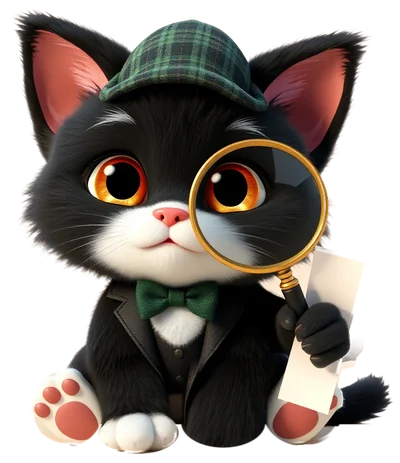
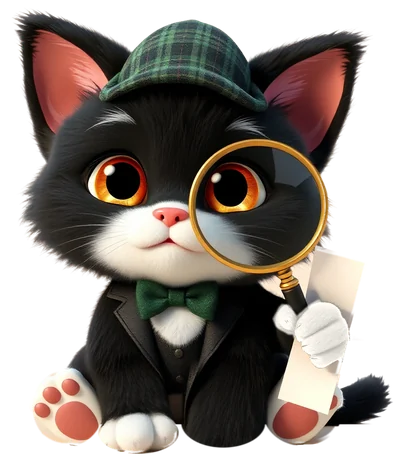
fix: deixa branca a pata do Recibaldo que segura a lupa
A mão veio preta na imagem gerada, diferente das outras patas. Ela é clareada no
recorte, mantendo dobras e textura, e a imagem da turma é remontada.

Changed region(s): [[0.66, 0.635, 0.9, 0.8164]]

diff --git a/src/web/sw.js b/src/web/sw.js
@@ -1,7 +1,7 @@
 // Service worker da EconoMIA (tópico 20): abre o app sem internet.
 // Sempre tenta a rede primeiro, para nunca mostrar preço velho quando há conexão.
 // A posição do usuário e as respostas do chat nunca são guardadas: só estas rotas da API entram no cache.
-const CACHE = "economia-v8";
+const CACHE = "economia-v9";
 const API_PERMITIDA = ["/api/opcoes", "/api/precos", "/api/creditos"];
 const ESSENCIAIS = ["./", "index.html", "estilo.css", "app.js", "animacoes.js", "cena3d.js", "gatos.js", "manifest.webmanifest", "img/logo-gato.webp", "img/logo-nome.webp", "img/mia.webp"];
 

diff --git a/experimentos/gatos3d/recorte.py b/experimentos/gatos3d/recorte.py
@@ -15,6 +15,8 @@ from scipy import ndimage as nd
 # remendo: cobre uma parte com outra esticada, de (origem) para (destino).
 # incluir: polígonos que a máscara perdeu, como o recibo branco sobre o fundo claro.
 # soltos: elipses onde vale procurar pelo longe do corpo, como a ponta do rabo.
+# excluir: polígonos de sobras do fundo.
+# clarear: polígonos de pelo preto que devem ficar brancos, mantendo dobras e textura.
 # corte: retângulo final, com folga para a cabeça girar.
 GATOS = {
     "mia": {
@@ -35,6 +37,12 @@ GATOS = {
         # A imagem veio com cinco patas: a da frente, abaixo do braço com a lupa, virou barriga.
         "remendo": ((470, 770, 610, 880), (448, 770, 628, 975)),
         "patas": [(215, 870, 75, 80), (362, 923, 80, 42), (535, 902, 84, 50), (697, 880, 79, 68)],
+        # A mão que segura a lupa veio preta; as outras patas são brancas.
+        "clarear": [
+            [(688, 688), (710, 668), (730, 656), (762, 660), (782, 690), (795, 740), (770, 775), (735, 790), (712, 775), (695, 750), (684, 725), (682, 700)],
+            [(642, 690), (655, 666), (668, 668), (684, 692), (682, 716), (668, 716), (648, 705)],
+        ],
+        "excluir": [[(790, 735), (835, 735), (835, 803), (772, 803)]],
         "incluir": [[(722, 543), (830, 572), (748, 885), (647, 853)]],
         "soltos": [(815, 855, 85, 65)],
         "corte": (80, 40, 896, 985),
@@ -102,8 +110,24 @@ def main():
         alfa[canto] *= np.maximum(dentro_de(*g["corpo"]), patas)[canto]
     pes = yy > 905
     alfa[pes] *= patas[pes]
+    if "excluir" in g:
+        desenho = Image.new("L", img.size, 0)
+        for poligono in g["excluir"]:
+            ImageDraw.Draw(desenho).polygon(poligono, fill=255)
+        alfa[np.asarray(desenho) > 0] = 0
     alfa = nd.gaussian_filter(alfa, 0.5)
 
+    if "clarear" in g:
+        desenho = Image.new("L", img.size, 0)
+        for poligono in g["clarear"]:
+            ImageDraw.Draw(desenho).polygon(poligono, fill=255)
+        area = nd.gaussian_filter(nd.binary_dilation(np.asarray(desenho) > 0, iterations=6).astype(float), 1.5)
+        luz = frente.mean(axis=-1)
+        # Só o que é escuro muda: o recibo e o fundo atrás da mão ficam como estão.
+        area *= np.clip((0.55 - luz) / 0.2, 0, 1)
+        claro = 0.66 + 0.36 * np.clip(luz / 0.2, 0, 1) ** 0.7
+        branco = claro[..., None] * np.array([1.0, 0.98, 0.95])
+        frente = np.clip(frente * (1 - area[..., None]) + branco * area[..., None], 0, 1)
     final = Image.fromarray((np.dstack([frente, alfa]) * 255).round().astype("uint8"), "RGBA")
     if "moeda" in g:
         (dx, dy, dr), (cx, cy, r) = g["moeda"]
